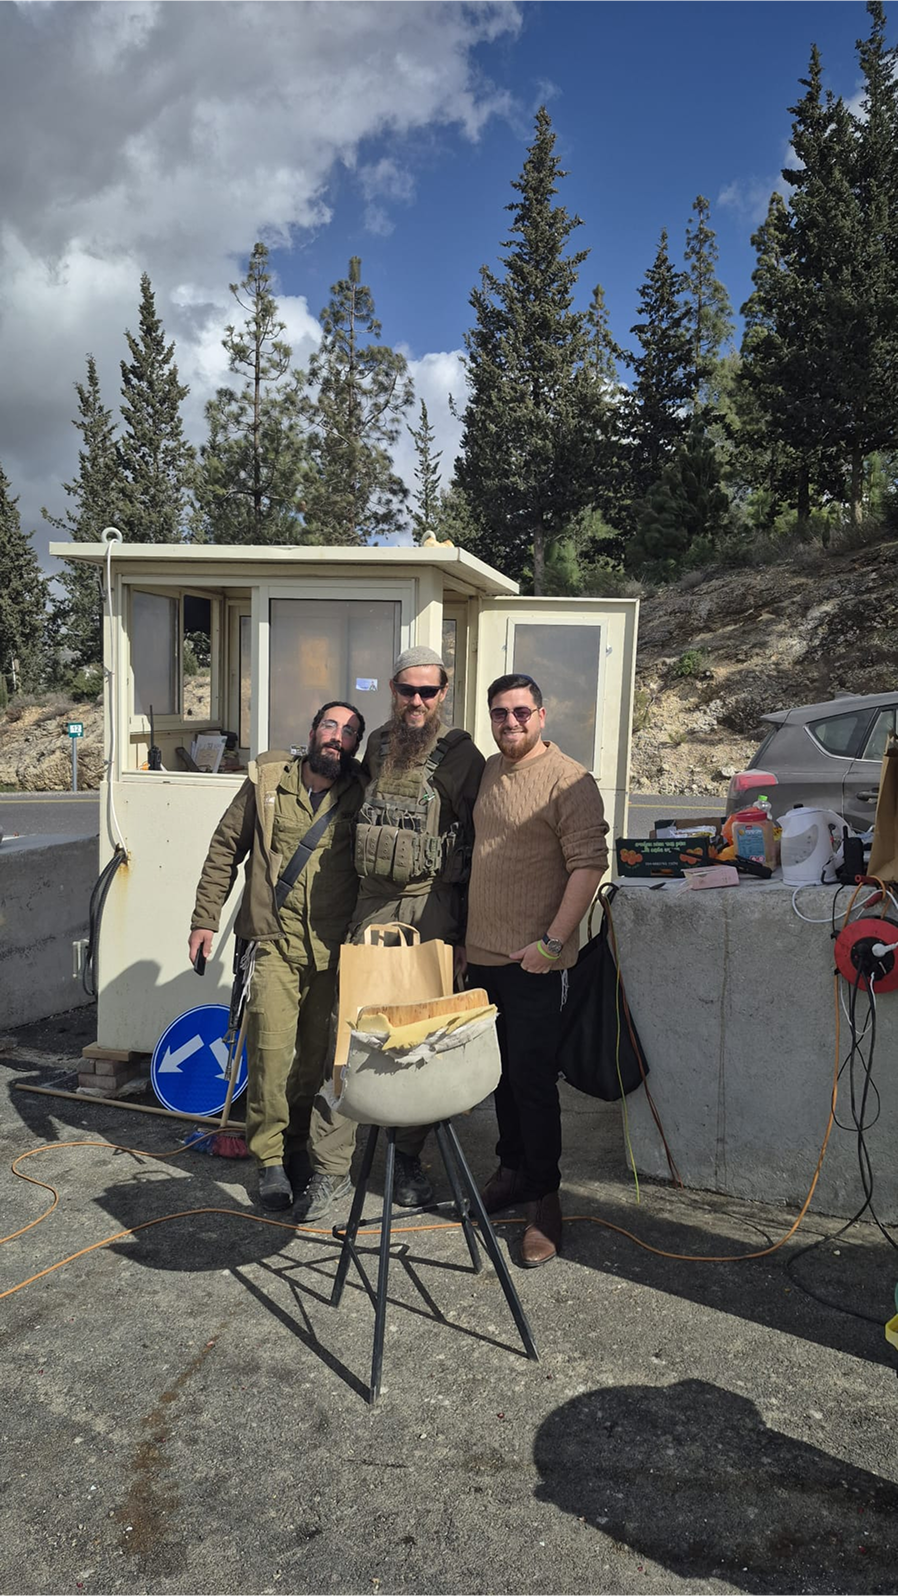
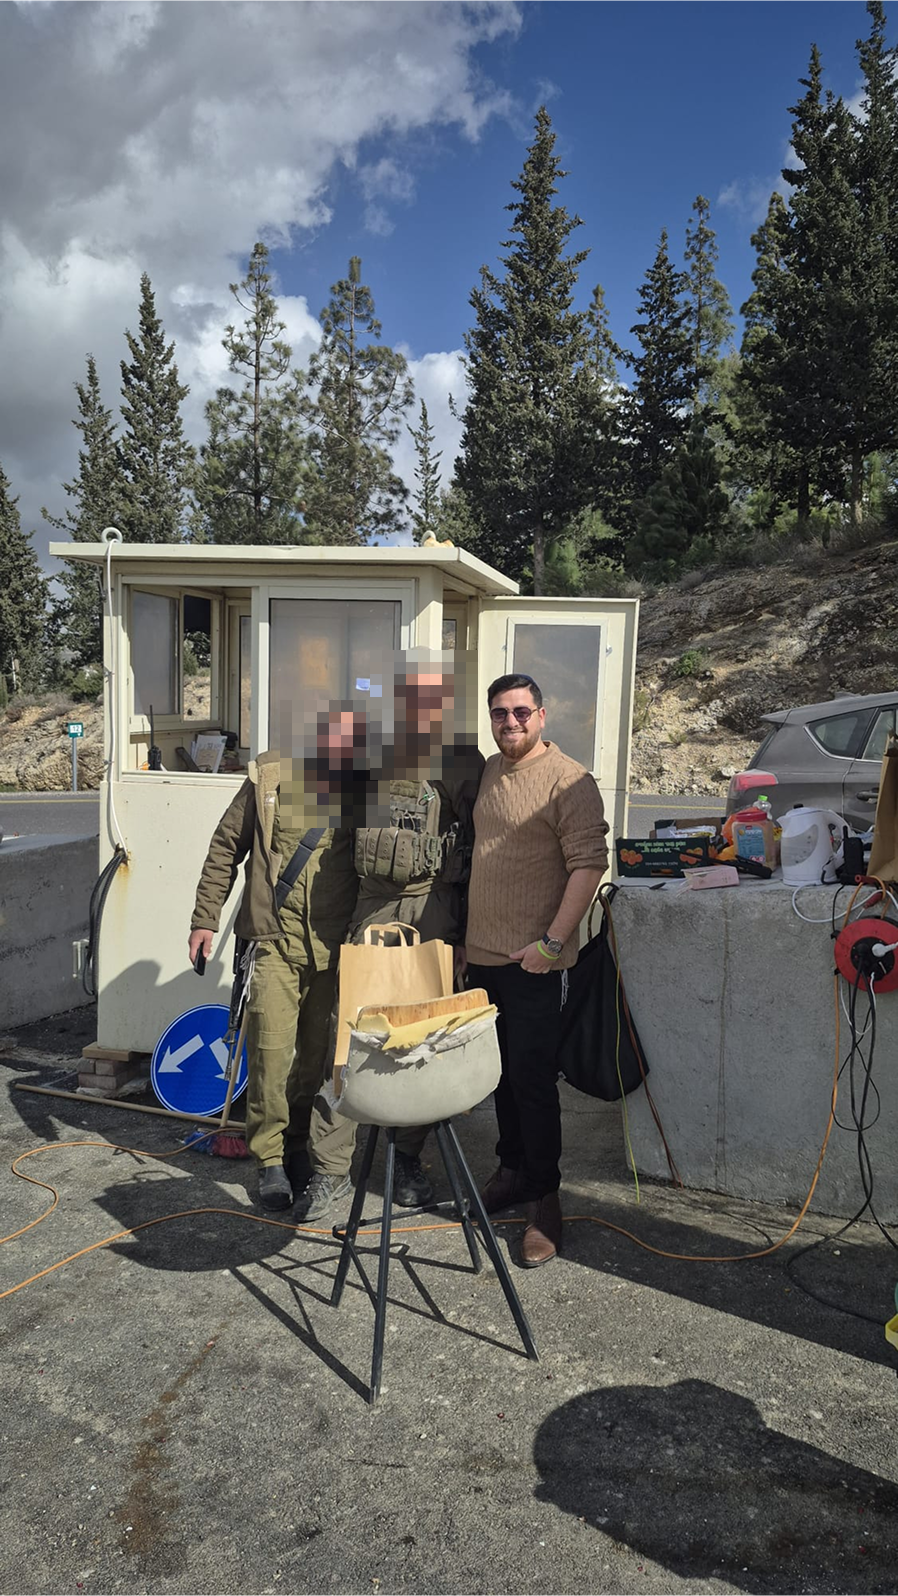
Blur soldiers' faces for privacy; relabel 200-stat
- photo-2: pixelate the two left soldiers' faces (right man untouched)
- photo-3: strong pixelation over the lone soldier's face
- stat.3 label -> "ליווי יום יומי" / "receiving daily support"

Changed region(s): [[0.3118, 0.3991, 0.5301, 0.5219]]

diff --git a/src/i18n/ui.ts b/src/i18n/ui.ts
@@ -29,7 +29,7 @@ export const ui = {
     "activities.heading": "הפעילות שלנו",
     "stat.1.label": "חיילים נהנים מימי כיף וגיבוש",
     "stat.2.label": "חיילים בודדים מקבלים בית חם",
-    "stat.3.label": "יתומים נהנו ממתנות",
+    "stat.3.label": "ליווי יום יומי",
 
     "card.food.title": "חלוקת אוכל",
     "card.food.desc": "חלוקת ארוחות שבועיות לחיילים בצמתים.",
@@ -89,7 +89,7 @@ export const ui = {
     "activities.heading": "Our Activities",
     "stat.1.label": "soldiers enjoyed fun and bonding days",
     "stat.2.label": "lone soldiers received a warm home",
-    "stat.3.label": "orphans received gifts",
+    "stat.3.label": "receiving daily support",
 
     "card.food.title": "Food Distribution",
     "card.food.desc": "Weekly meals distributed to soldiers at junctions.",
